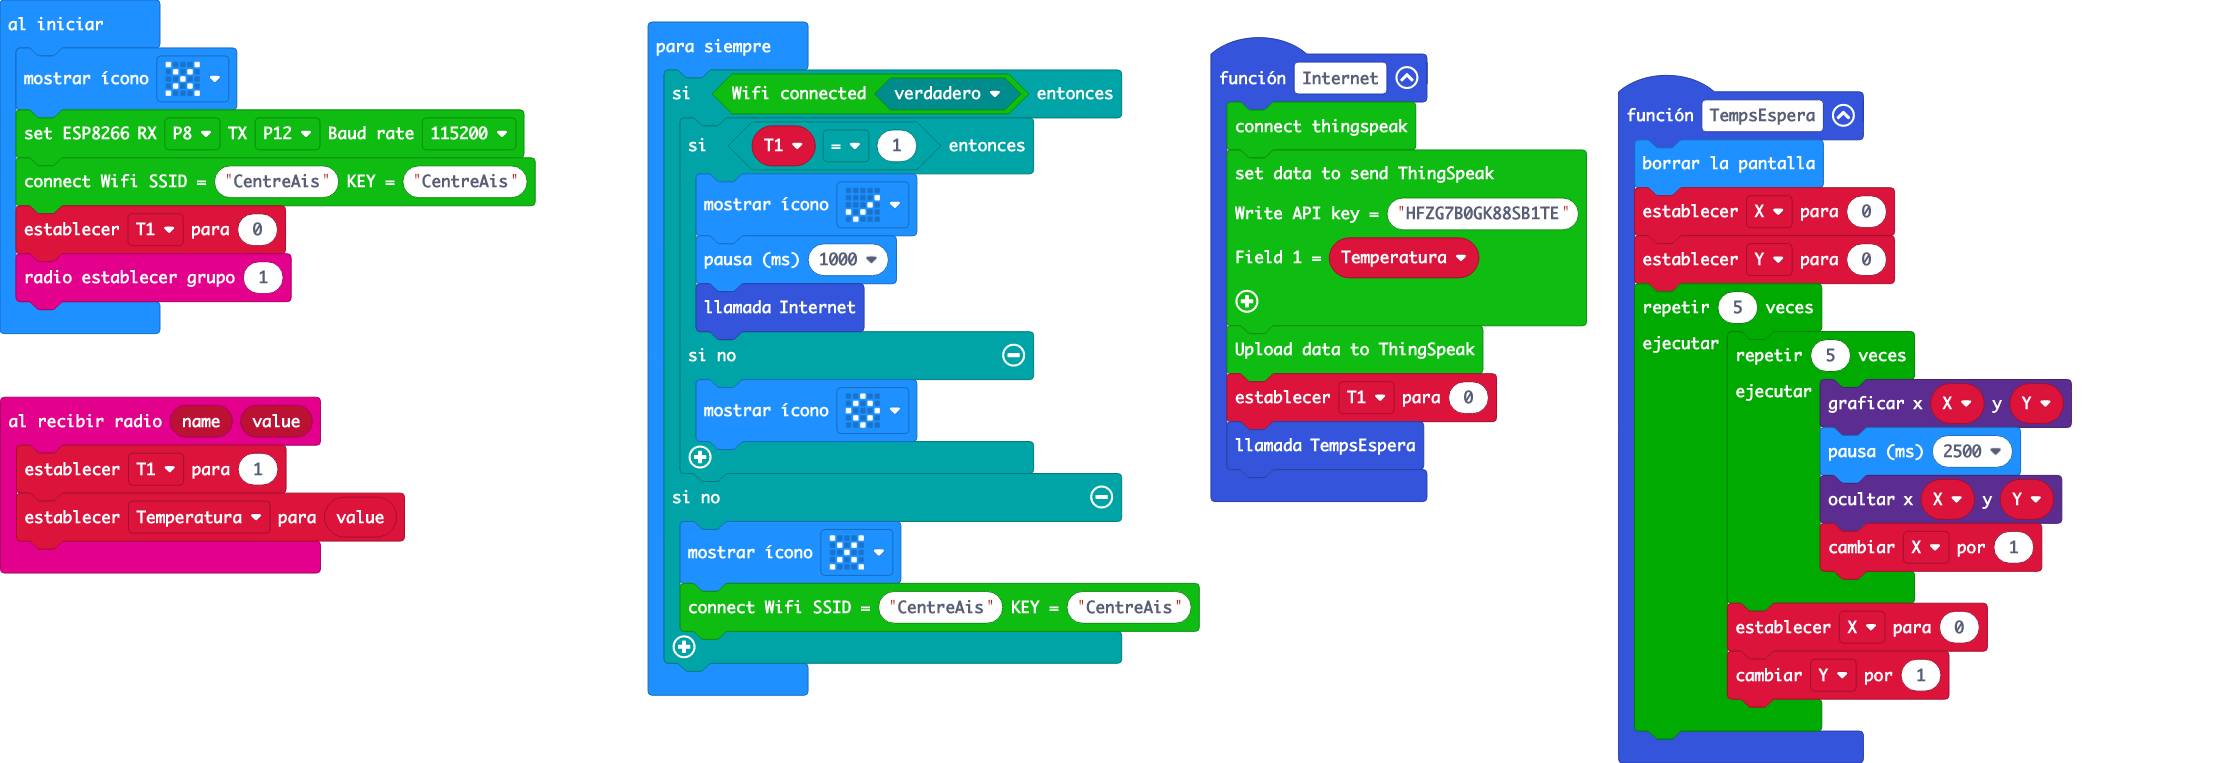
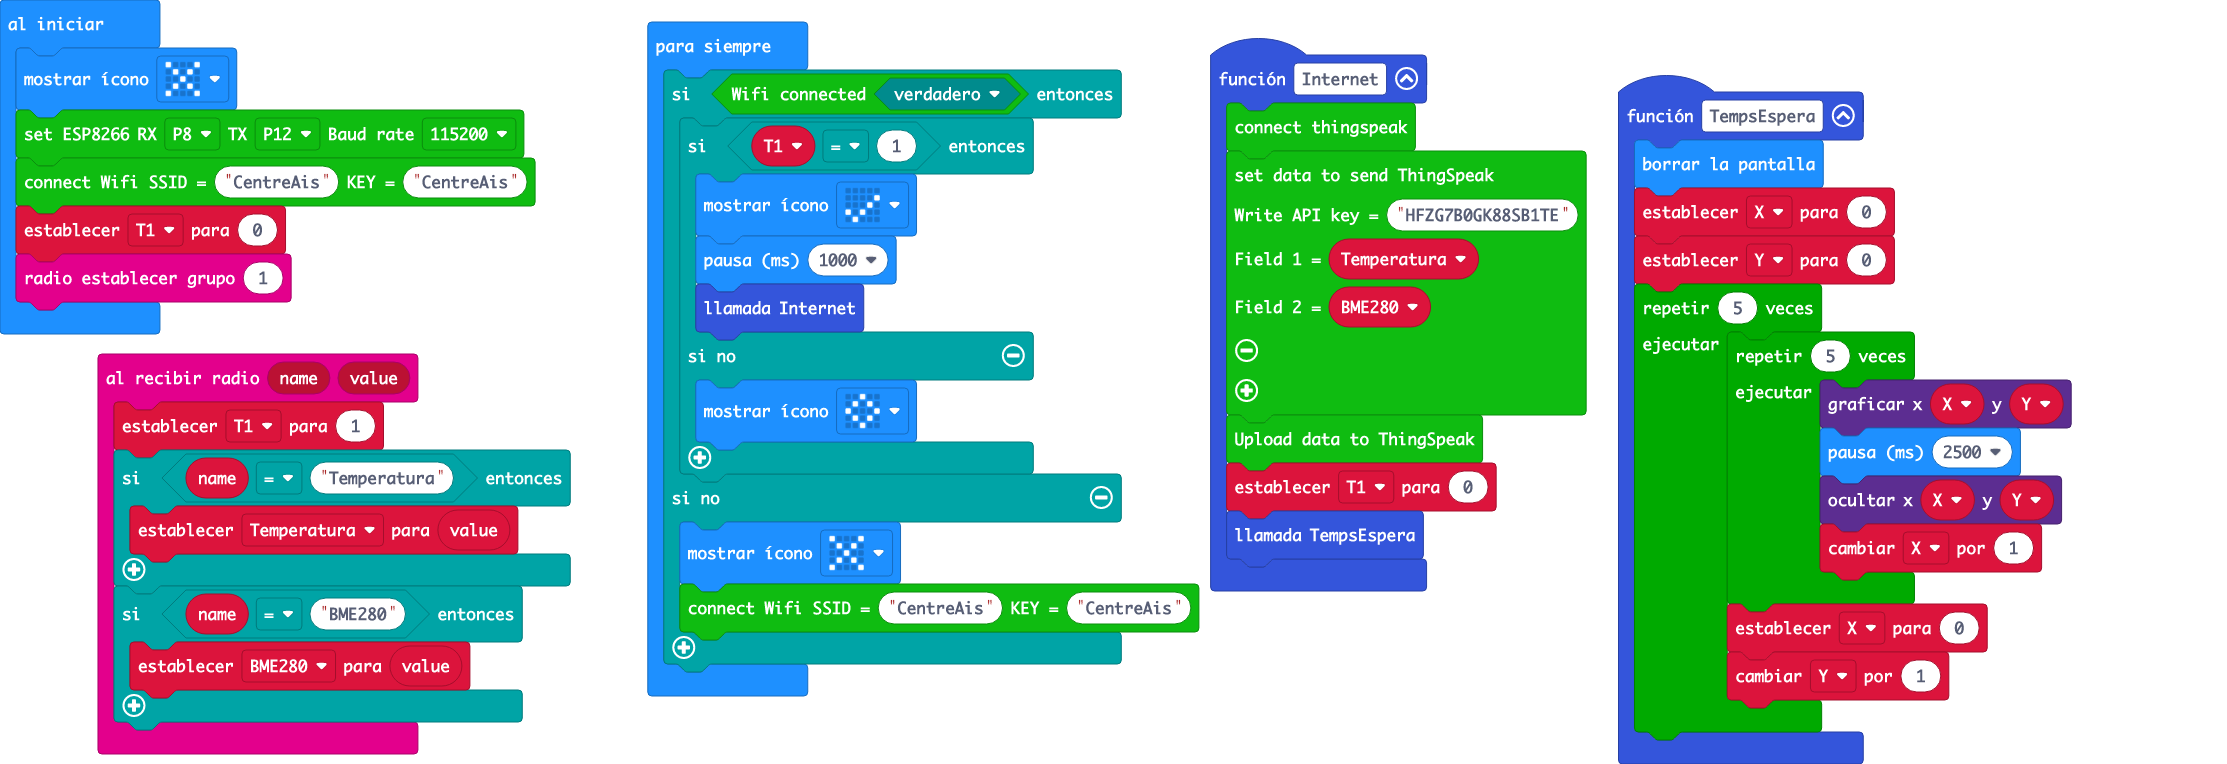
Update main.blocks, main.ts

diff --git a/main.ts b/main.ts
@@ -15,18 +15,25 @@ function TempsEspera () {
 }
 radio.onReceivedValue(function (name, value) {
     T1 = 1
-    Temperatura = value
+    if (name == "Temperatura") {
+        Temperatura = value
+    }
+    if (name == "BME280") {
+        BME280 = value
+    }
 })
 function Internet () {
     ESP8266_IoT.connectThingSpeak()
     ESP8266_IoT.setData(
     "HFZG7B0GK88SB1TE",
-    Temperatura
+    Temperatura,
+    BME280
     )
     ESP8266_IoT.uploadData()
     T1 = 0
     TempsEspera()
 }
+let BME280 = 0
 let Temperatura = 0
 let Y = 0
 let X = 0
